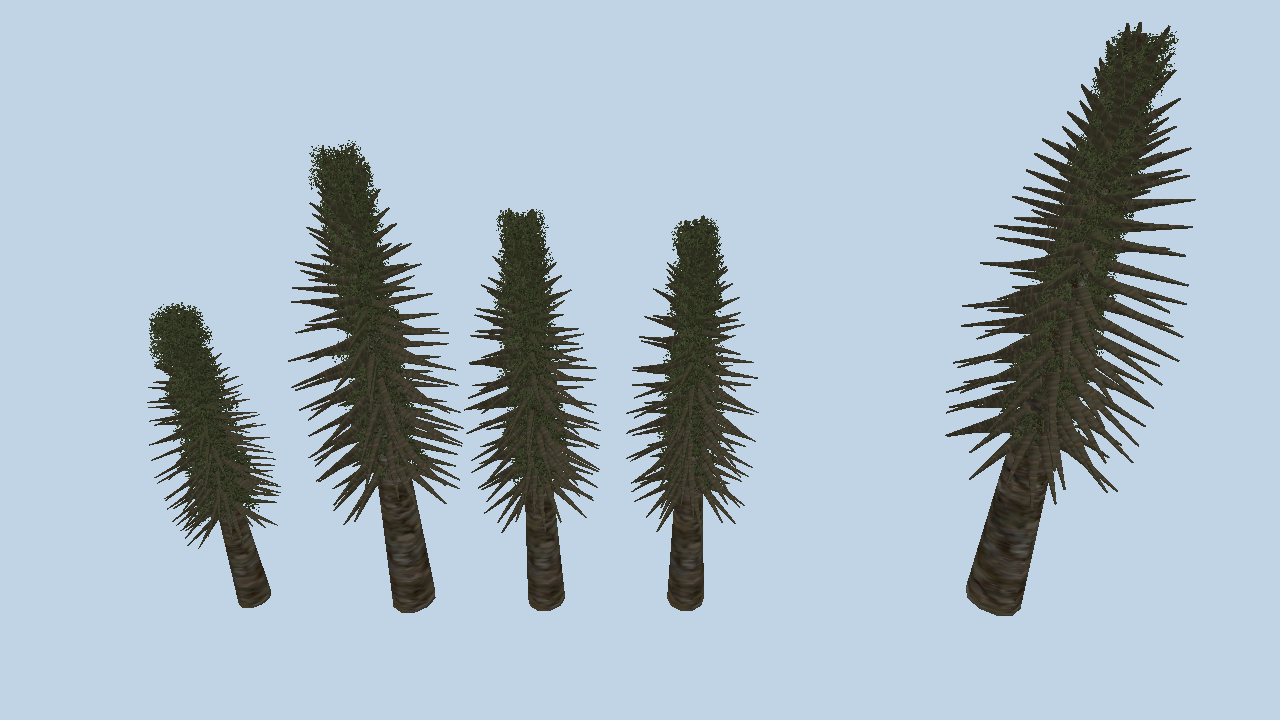
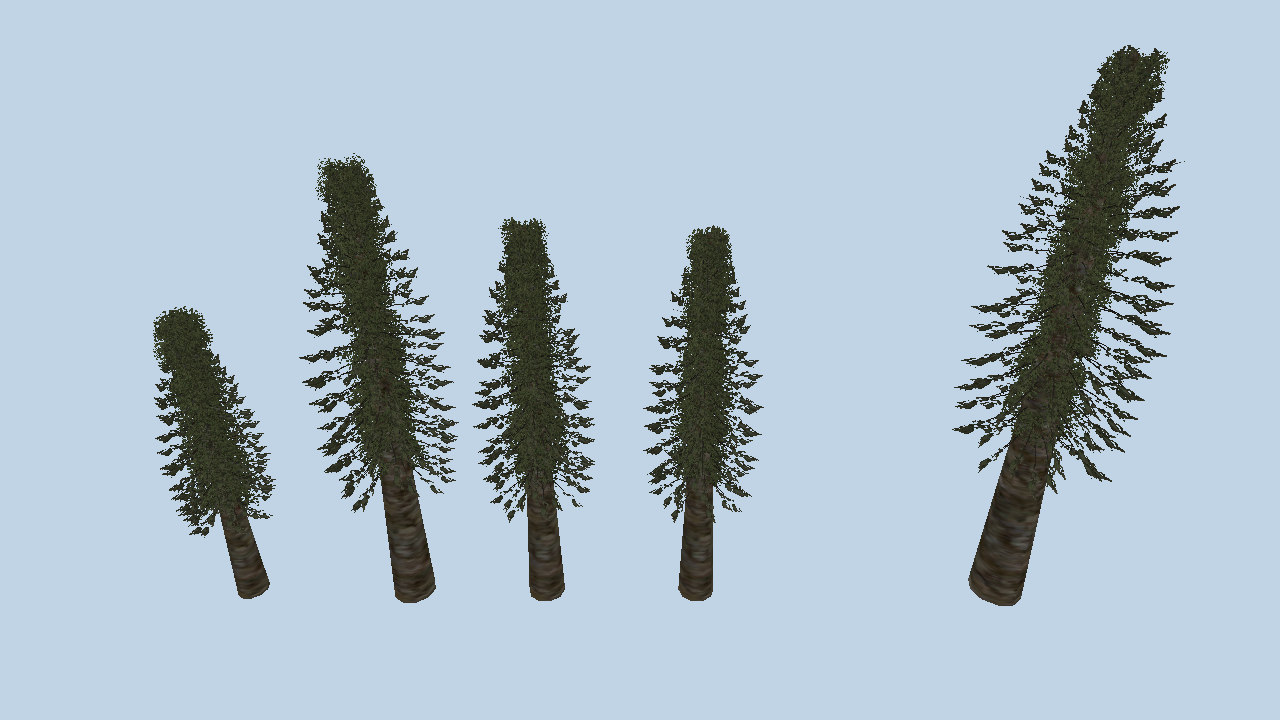
Grow fronds, so conifers stop being sticks
A conifer carries its needles as fronds - flat blades running along a branch -
not as leaf cards, which is why the first firs came out as bare cones. Every one
of the 98 definitions names a frond texture in the 14000 band, and like the leaf
textures, none of those names exist in the game archives: a frond is another tile
of the composite atlas. The tiles are handed out in file order, one per leaf kind
and then one for the frond, which is what the palms settle - they have no leaf
kind with a tile of its own and their frond quad is the one that follows.

The last branch level of a definition that has a frond tile is now drawn as
blades instead of a tube: one quad per segment, mapped to the whole tile, with
14007 of them crossed about the branch axis. 14007 and 14008 are counts, so they
are read as integers - the same trap the branch slice and segment counts set.

All 98 still grow, now 574958 triangles in all with a mean height of 2048 units.

diff --git a/runtime/src/genome/tree.cpp b/runtime/src/genome/tree.cpp
@@ -168,6 +168,31 @@ void addLeafCard(MeshElement &element, const Vec &at, const Vec &facing, float w
     }
 }
 
+// A frond is drawn as flat blades running along a branch rather than a tube:
+// one quad per segment, each mapped to the whole tile, and the blades crossed
+// about the branch axis so the spray reads from any direction. Conifer needles
+// and palm leaves are this, not leaf cards.
+void addFrondSegment(MeshElement &element, const Frame &from, const Frame &to, float width,
+                     std::uint32_t blades, const std::array<float, 8> &corners)
+{
+    for (std::uint32_t blade = 0; blade < blades; ++blade)
+    {
+        const float turn = 3.14159265f * float(blade) / float(std::max(1u, blades));
+        const Vec acrossFrom = from.right * std::cos(turn) + from.up() * std::sin(turn);
+        const Vec acrossTo = to.right * std::cos(turn) + to.up() * std::sin(turn);
+        const Vec normal = normalise(cross(acrossFrom, to.at - from.at));
+
+        const std::uint32_t start = std::uint32_t(element.positions.size());
+        addVertex(element, from.at - acrossFrom * (width * 0.5f), normal, corners[2], corners[3]);
+        addVertex(element, from.at + acrossFrom * (width * 0.5f), normal, corners[0], corners[1]);
+        addVertex(element, to.at + acrossTo * (width * 0.5f), normal, corners[6], corners[7]);
+        addVertex(element, to.at - acrossTo * (width * 0.5f), normal, corners[4], corners[5]);
+
+        element.indices.insert(element.indices.end(),
+                               {start, start + 1, start + 2, start, start + 2, start + 3});
+    }
+}
+
 struct Grower
 {
     const SpeedTree &definition;
@@ -184,6 +209,12 @@ struct Grower
     std::size_t branchLevels() const
     {
         return definition.levels.empty() ? 0 : definition.levels.size() - 1;
+    }
+
+    // Zero when the definition has no frond tile to draw one with.
+    std::uint32_t frondLevel() const
+    {
+        return definition.frond.hasCorners ? definition.frond.level : 0;
     }
 
     float curve(std::size_t level, Curve which, float t) const
@@ -208,13 +239,23 @@ struct Grower
         std::vector<float> radii;
         along.reserve(segments + 1);
 
+        // The last branch level of a conifer or a palm is a needle spray, and a
+        // tube there draws the bare sticks the first fir came out as.
+        const bool asFrond = frondLevel() != 0 && level + 1 == branchLevels();
+        const float frondWidth = std::max(20.0f, definition.frond.width * c_UnitsPerSize * 2.0f);
+
         const float lean = curve(level, Curvature, 0.0f) - curve(level, Curvature, 1.0f);
         for (std::uint32_t step = 0; step <= segments; ++step)
         {
             const float t = float(step) / float(segments);
             const float ringRadius = std::max(0.5f, radius * (1.0f - curve(level, Taper, t)) * (1.0f - t * 0.85f));
 
-            addRing(bark, frame, ringRadius, t * 4.0f, slices, step == 0);
+            if (!asFrond)
+                addRing(bark, frame, ringRadius, t * 4.0f, slices, step == 0);
+            else if (step != 0)
+                addFrondSegment(foliage, along.back(), frame, frondWidth, definition.frond.blades,
+                                definition.frond.hasCorners ? definition.frond.corners
+                                                            : std::array<float, 8>{1, 1, 0, 1, 0, 0, 1, 0});
             along.push_back(frame);
             radii.push_back(ringRadius);
 

diff --git a/runtime/src/genome/spt.cpp b/runtime/src/genome/spt.cpp
@@ -288,6 +288,30 @@ bool loadSpeedTree(const std::vector<std::uint8_t> &bytes, SpeedTree &out, std::
         case 4002:
             leaf.scale = token.floats.empty() ? 0.0f : token.floats[0];
             break;
+        case 14002:
+            out.frond.texture = token.text;
+            break;
+        case 14003:
+            out.frond.scale = token.floats.empty() ? 0.0f : token.floats[0];
+            break;
+        case 14004:
+            out.frond.width = token.floats.empty() ? 0.0f : token.floats[0];
+            break;
+        case 14005:
+            out.frond.firstAngle = token.floats.empty() ? 0.0f : token.floats[0];
+            break;
+        case 14006:
+            out.frond.secondAngle = token.floats.empty() ? 0.0f : token.floats[0];
+            break;
+        case 14007:
+        case 14008: {
+            // Counts, so the four bytes are an integer.
+            std::uint32_t raw = 0;
+            if (!token.floats.empty())
+                std::memcpy(&raw, &token.floats[0], sizeof(raw));
+            (id == 14007 ? out.frond.blades : out.frond.level) = raw;
+            break;
+        }
         case 18005:
             out.shadowTexture = token.text;
             break;
@@ -356,11 +380,24 @@ bool loadSpeedTree(const std::vector<std::uint8_t> &bytes, SpeedTree &out, std::
     {
         if (token.id < 10002 || token.id > 10004 || token.floats.size() < 8)
             continue;
-        if (kind >= out.leaves.size())
+
+        // The quads are handed out in order: one per leaf kind, then the frond.
+        std::array<float, 8> *corners = nullptr;
+        if (kind < out.leaves.size())
+        {
+            corners = &out.leaves[kind].corners;
+            out.leaves[kind].hasCorners = true;
+        }
+        else if (!out.frond.hasCorners)
+        {
+            corners = &out.frond.corners;
+            out.frond.hasCorners = true;
+        }
+        else
             break;
+
         for (std::size_t corner = 0; corner < 8; ++corner)
-            out.leaves[kind].corners[corner] = token.floats[corner];
-        out.leaves[kind].hasCorners = true;
+            (*corners)[corner] = token.floats[corner];
         ++kind;
     }
 

diff --git a/runtime/src/genome/spt.h b/runtime/src/genome/spt.h
@@ -67,6 +67,23 @@ struct LeafKind
     bool hasCorners = false;
 };
 
+// Fronds: flat blades that stand in for finely divided foliage. Conifers and
+// palms carry their needles this way, where a leaf card would be wrong. Like the
+// leaves, the texture named here is not in the archives - a frond is a tile of
+// the same composite atlas.
+struct Frond
+{
+    std::string texture;             // id 14002
+    float scale = 0.0f;              // id 14003
+    float width = 0.0f;              // id 14004
+    float firstAngle = 0.0f;         // id 14005, degrees
+    float secondAngle = 0.0f;        // id 14006, degrees
+    std::uint32_t blades = 1;        // id 14007, one to five
+    std::uint32_t level = 1;         // id 14008
+    std::array<float, 8> corners{};
+    bool hasCorners = false;
+};
+
 // Ambient, diffuse, specular and emissive colour plus a shininess - the shape of
 // the three 52-byte records the format carries.
 struct SpeedTreeMaterial
@@ -104,6 +121,7 @@ struct SpeedTree
 
     std::vector<BranchLevel> levels;
     std::vector<LeafKind> leaves;
+    Frond frond;
     std::vector<SpeedTreeMaterial> materials;
 
     std::string billboardTexture;    // id 20002

diff --git a/docs/trees.md b/docs/trees.md
@@ -91,14 +91,29 @@ the shapes should look like.
 Two constants are not in the definitions and come from those billboards: a
 trunk is bare for its lower third, and a child spans at most 0.45 of its parent.
 
+## Fronds
+
+![Douglas firs](trees-fir.png)
+
+Conifers first came out as bare cones, and correctly so: their needles are not
+leaf cards but **fronds** - flat blades that run along a branch. Every one of the
+98 definitions names a frond texture in the 14000 band, and like the leaf
+textures none of those names exist in the archives: a frond is another tile of
+the composite atlas. The tiles are handed out in file order, one per leaf kind
+and then one for the frond.
+
+So the last branch level of a definition that has a frond tile is drawn as
+blades rather than as a tube: one quad per segment, each mapped to the whole
+tile, and `14007` of them crossed about the branch axis so the spray reads from
+any direction.
+
+![Coconut palms](trees-palm.png)
+
+A palm is the honest test of that, because it is almost nothing but fronds on a
+bare trunk.
+
 ## What is not done
 
-![Douglas firs, still bare](trees-fir.png)
-
-Conifers come out as bare cones, and correctly so: their needles are **fronds**,
-the 14000 band, which the generator does not read yet. The oaks look right
-because broadleaves carry their foliage as leaf cards, which it does.
-
-Also outstanding: wind (the game animates it in the vertex shader, driven by
+Outstanding: wind (the game animates it in the vertex shader, driven by
 matrix arrays the SDK computes), billboards at distance, and the level of detail
 the definitions carry in the 9000 band.
